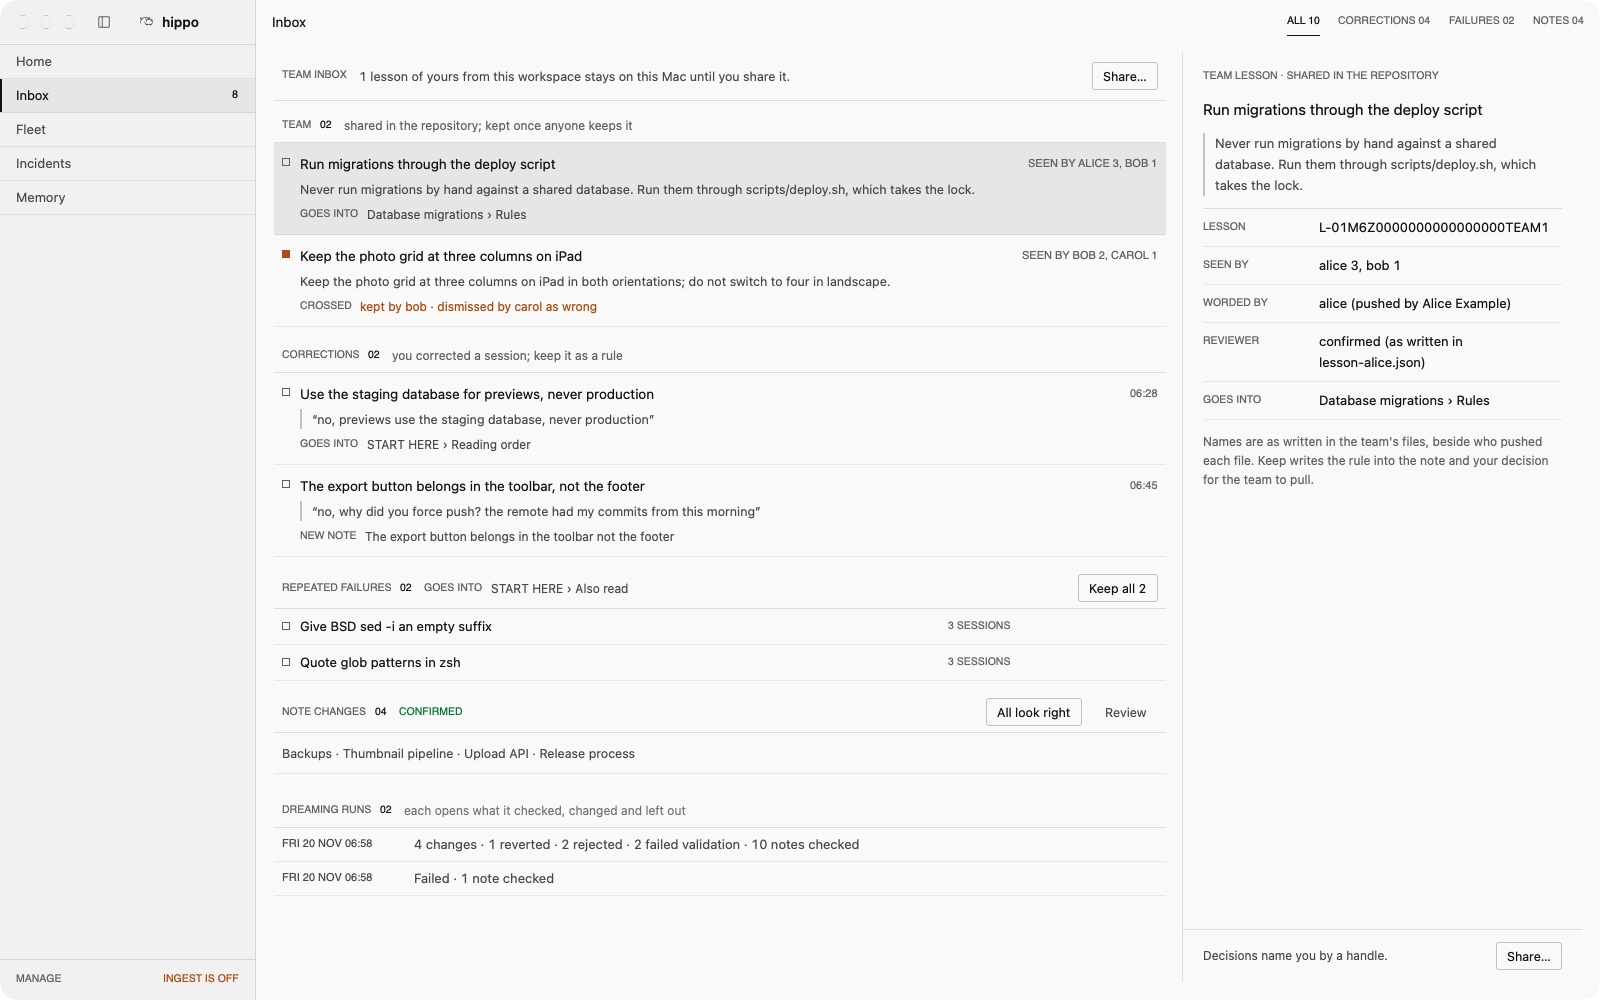
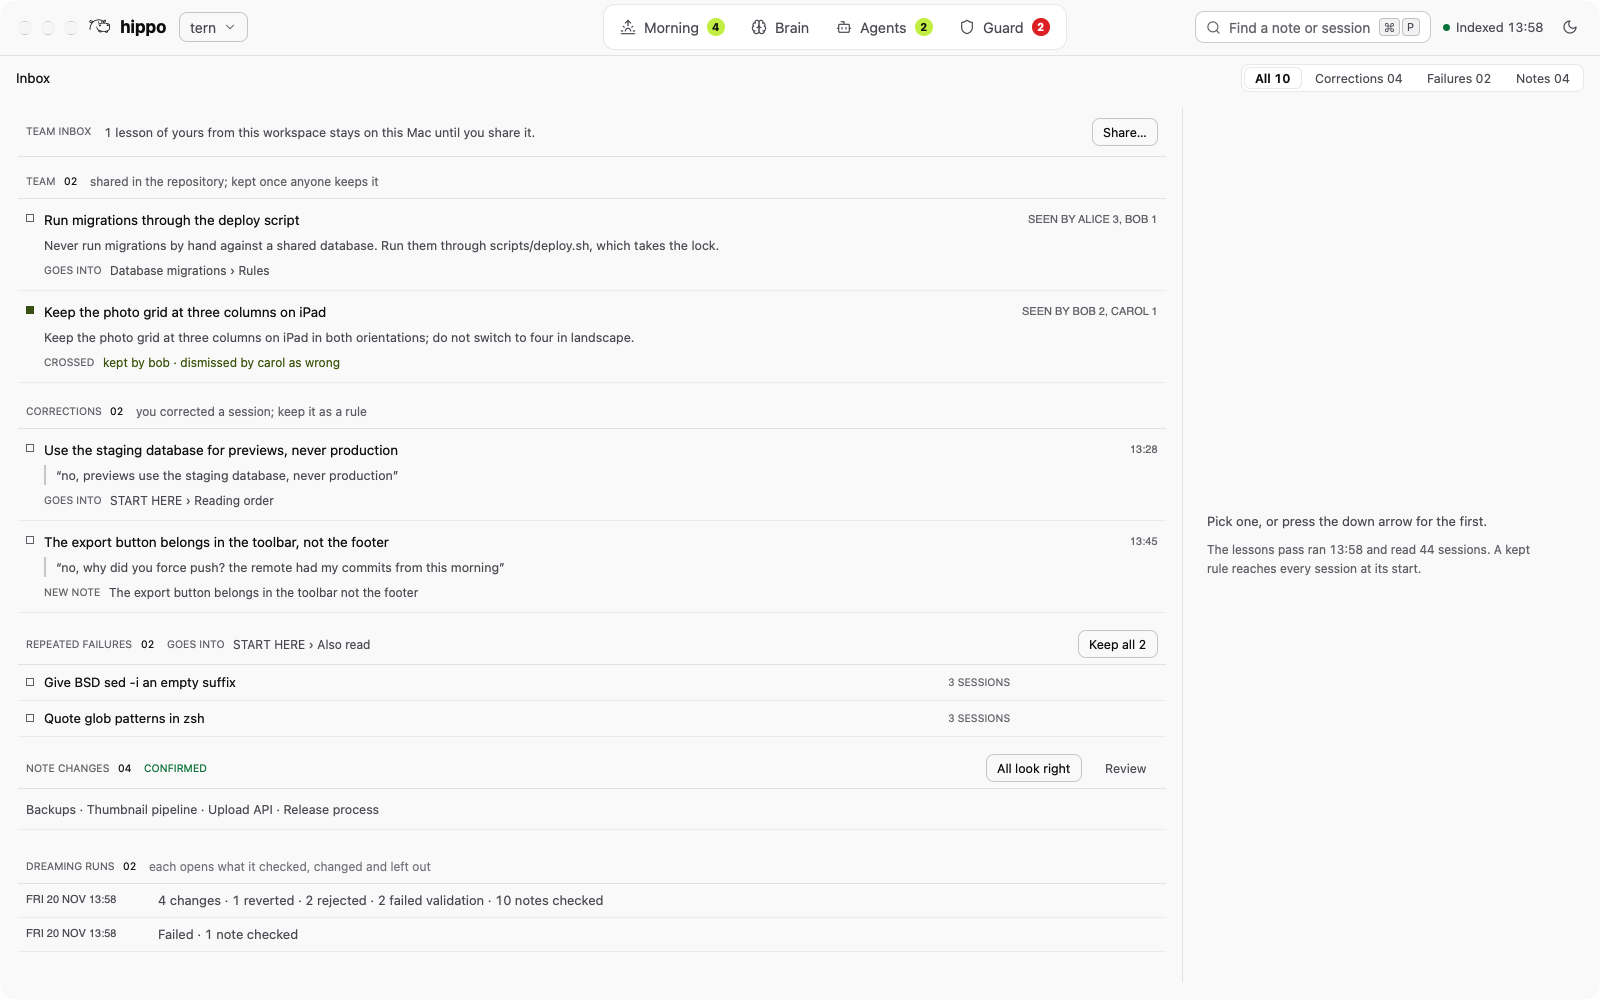
docs: every screenshot new, in graphite and lime
All taken on the synthetic demo home (app/scripts/demo-home.sh) with a
release build. The app shots are dark and light; the Ask bar names
Claude Code, a default install's runner, as the live demo does (the
demo home's stub runner is removed from its config after seeding).

- README "See it in action": six screens in two columns, a line under
  each (docs/assets/readme/): hippo brief, the Inbox, a night pass's
  report (hippo view morning), hippo incidents, Agents and Brain. The
  app shots follow the reader's light or dark setting. Agents replaces
  Fleet: it is the view the top bar opens.
- Landing page: the Morning and Brain windows are back
  (docs/assets/app-{morning,brain}-{dark,light}.jpg).
- docs/assets: the team Inbox shots team-brain.md shows, retaken at
  their sizes; card-site.png drawn by the new hippo card. The old
  shots nothing references are removed (app-fleet, app-home, app-inbox,
  app-incidents, app-memory, card.png, first-run.gif).
- docs/site/build.sh copies the files of docs/assets only, not the
  README's folder.

diff --git a/docs/site/landing.html b/docs/site/landing.html
@@ -56,7 +56,10 @@
     <a class="btn" href="https://github.com/VanitasCaesar1/hippo">Read the source</a>
     <span class="cta-f">The demo is a replica of the app with made-up data. Nothing to install.</span>
   </div>
-  <!-- Screenshot: Hippo.app Morning. Back in v0.7.2, taken with the new palette and agent marks. -->
+  <figure class="window"><picture>
+      <source media="(prefers-color-scheme: light)" srcset="assets/app-morning-light.jpg">
+      <img src="assets/app-morning-dark.jpg" width="1440" height="900" alt="Hippo.app, Morning, on the synthetic demo home: four rules drafted from corrections wait for Keep, Edit or Dismiss, joined by lines to the words they came from, beside the notes fixed overnight and what a new session starts with.">
+    </picture></figure>
 </div></section>
 <section class="wrap agents" aria-labelledby="agents-h">
   <h2 id="agents-h" class="eyebrow">One memory, every agent</h2>
@@ -97,7 +100,10 @@
   <div class="see-say"><h2 id="see-h">The notes, as a map</h2>
   <p class="lead">Brain shows what your agents know: which notes were fixed last night, which have gone stale, and which ones sessions read. Agents shows who is waiting on you. Guard shows the risky steps.</p>
   <p><a class="btn" href="demo.html#brain"><svg width="16" height="16" viewBox="0 0 24 24" fill="none" stroke="currentColor" stroke-width="1.75" stroke-linecap="round" stroke-linejoin="round" aria-hidden="true"><path d="M12 18V5"/><path d="M15 13a4.17 4.17 0 01-3-4 4.17 4.17 0 01-3 4"/><path d="M17.707 6.294A3 3 0 1012 5a3 3 0 10-5.707 1.294"/><path d="M17.996 5.125a4 4 0 012.526 5.77"/><path d="M18 18a4 4 0 002-7.465"/><path d="M19.967 17.482a4 4 0 11-7.967.517 4 4 0 11-7.967-.517"/><path d="M6 18a4 4 0 01-2-7.465"/><path d="M6.004 5.125a4 4 0 00-2.526 5.77"/></svg>Open Brain in the demo</a></p></div>
-  <!-- Screenshot: Hippo.app Brain. Back in v0.7.2, taken with the new palette and agent marks. -->
+  <figure class="window"><picture>
+      <source media="(prefers-color-scheme: light)" srcset="assets/app-brain-light.jpg">
+      <img src="assets/app-brain-dark.jpg" width="1440" height="900" alt="Hippo.app, Brain: the notes as cards grouped by folder, with chips for fixed last night, rule waiting and stale, beside the selected note." loading="lazy">
+    </picture></figure>
 </section>
 <section class="wrap compare" id="compare" aria-labelledby="compare-h">
   <h2 id="compare-h">hippo, your agent&#x27;s memory, or another tool</h2>

diff --git a/README.md b/README.md
@@ -67,23 +67,22 @@ Each of these is worth knowing; they answer different questions.
 
 ## See it in action
 
-Screenshots of these come with the next release, taken from the synthetic demo project in this repository (`app/scripts/demo-home.sh`), not anyone's real work. Until then, the [live demo](https://vanitascaesar1.github.io/hippo/demo.html) shows Morning and Brain.
+Taken from the synthetic demo project in this repository (`app/scripts/demo-home.sh`), not anyone's real work. The app screenshots follow your light or dark setting. The [live demo](https://vanitascaesar1.github.io/hippo/demo.html) runs Morning and Brain in the browser.
 
-<!--
-Two columns, one line under each (docs/assets/readme/, v0.7.2):
-| brief.png: `hippo brief`, what a new session on a task starts with, and the past sessions that already did part of it | app-inbox.jpg: the Inbox, rules drafted from your corrections and repeated failures, and the team's |
-| night-report.png: a night pass's report, proposals, the reviewer's verdicts and reasons | incidents.png: `hippo incidents`, what went wrong, where, and whether a rule covered it |
-| app-fleet.jpg: Fleet in Hippo.app, who waits on you and which account runs dry | app-brain.jpg: Brain in Hippo.app, the notes as a map |
--->
-
-| Screen | What it shows |
-|---|---|
-| `hippo brief` | What a new session on a task starts with, and the past sessions that already did part of it. |
-| The Inbox | Rules drafted from your corrections and repeated failures, and the team's, waiting for you. |
-| A night pass's report | Each proposal, the ones that failed validation, and the reviewer's confirm or reject with its reason. |
-| `hippo incidents` | What went wrong, in which session and at which step, and whether a rule covered it. |
-| Fleet in Hippo.app | Who waits on you, who is working, and which account runs dry before its reset. |
-| Brain in Hippo.app | The notes as a map: what was fixed last night, what waits, what went stale. |
+<table>
+<tr>
+<td width="50%" valign="top"><img src="docs/assets/readme/brief.png" alt="hippo brief in a terminal: the notes and past sessions a new session on the task starts with" width="100%"><br><code>hippo brief</code>: what a new session on a task starts with, and the past sessions that already did part of it.</td>
+<td width="50%" valign="top"><picture><source media="(prefers-color-scheme: light)" srcset="docs/assets/readme/app-inbox-light.jpg"><img src="docs/assets/readme/app-inbox-dark.jpg" alt="The Inbox in Hippo.app: rules drafted from corrections and repeated failures, and the team's" width="100%"></picture><br>The Inbox: rules drafted from your corrections and repeated failures, and the team's, waiting for you.</td>
+</tr>
+<tr>
+<td width="50%" valign="top"><img src="docs/assets/readme/night-report.png" alt="hippo view morning in a terminal: last night's rules, applied changes and the rejected ones with reasons" width="100%"><br>A night pass's report: the rules it drafted, what it changed (each with an undo) and what the second model rejected, with its reason.</td>
+<td width="50%" valign="top"><img src="docs/assets/readme/incidents.png" alt="hippo incidents in a terminal: what went wrong, in which session and step" width="100%"><br><code>hippo incidents</code>: what went wrong, in which session and at which step, and whether a rule covered it.</td>
+</tr>
+<tr>
+<td width="50%" valign="top"><picture><source media="(prefers-color-scheme: light)" srcset="docs/assets/readme/app-agents-light.jpg"><img src="docs/assets/readme/app-agents-dark.jpg" alt="Agents in Hippo.app: accounts with their usage meters, and the sessions waiting on you" width="100%"></picture><br>Agents in Hippo.app: who waits on you, who is working, and which account runs dry before its reset.</td>
+<td width="50%" valign="top"><picture><source media="(prefers-color-scheme: light)" srcset="docs/assets/app-brain-light.jpg"><img src="docs/assets/app-brain-dark.jpg" alt="Brain in Hippo.app: the notes as a map" width="100%"></picture><br>Brain in Hippo.app: the notes as a map, with what was fixed last night, what waits and what went stale.</td>
+</tr>
+</table>
 
 ## Install
 
